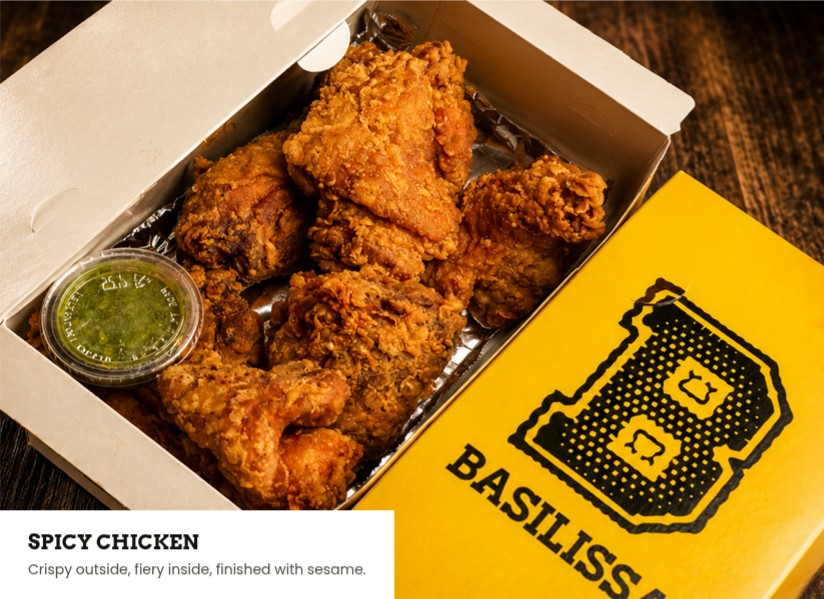
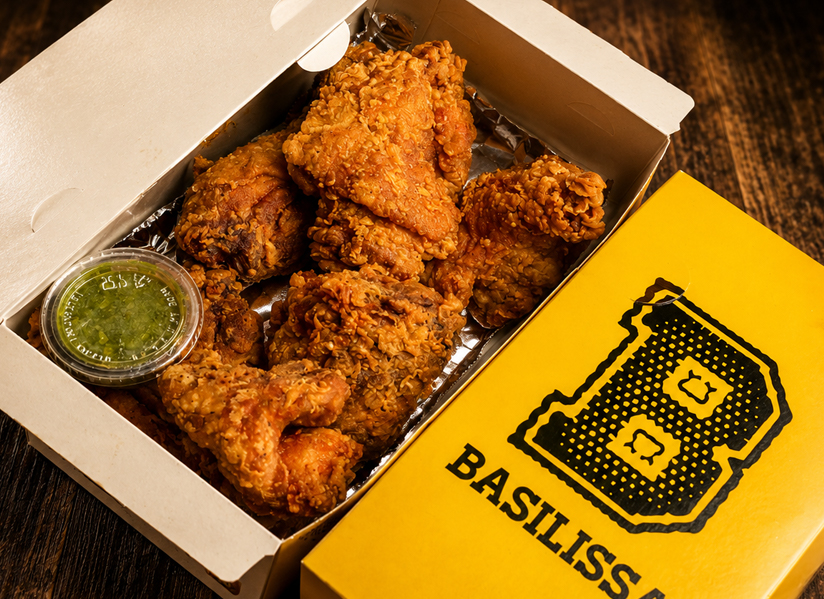
Refactor code structure for improved readability and maintainability

diff --git a/src/app/basilissa/page.tsx b/src/app/basilissa/page.tsx
@@ -1,5 +1,81 @@
-import Image from "next/image";
+'use client';
+
+import { useState } from 'react';
+import Image from 'next/image';
+import { motion, AnimatePresence } from 'framer-motion';
+
+interface FoodItem {
+  id: string;
+  label: string;
+  sublabel?: string;
+  title: string;
+  description: string;
+  image: string;
+  alt: string;
+}
+
+const FOOD_ITEMS: FoodItem[] = [
+  {
+    id: 'shawarma',
+    label: 'Shawarma',
+    title: 'Signature Shawarma',
+    description: 'Fresh flatbread rolled with seasoned rotisserie chicken, garlic sauce, and crisp vegetables.',
+    image: '/images/basilissa/shawarma.jpg',
+    alt: 'Freshly wrapped Basilissa chicken shawarma with fries and dipping sauce',
+  },
+  {
+    id: 'burgers',
+    label: 'Burgers',
+    title: 'Gourmet Burgers',
+    description: 'Juicy grilled beef patty with melted cheddar, crisp greens, and house sauce in a toasted brioche bun.',
+    image: '/images/basilissa/burger.jpg',
+    alt: 'Basilissa gourmet burger with golden fries and dipping sauce',
+  },
+  {
+    id: 'pizza',
+    label: 'Pizza',
+    title: 'Artisanal Pizza',
+    description: 'Freshly baked with savory chicken, sweet peppers, melted mozzarella, and fresh basil.',
+    image: '/images/basilissa/pizza.jpg',
+    alt: 'Freshly baked Basilissa artisanal pizza on a wooden board',
+  },
+  {
+    id: 'rice-meals',
+    label: 'Rice meals',
+    title: 'Rice Meals',
+    description: 'Signature grilled chicken served with seasoned fried rice, golden omelette, and fresh coleslaw.',
+    image: '/images/basilissa/cta-chicken-rice.jpg',
+    alt: 'Basilissa grilled chicken and seasoned fried rice meal platter',
+  },
+  {
+    id: 'chicken',
+    label: 'Chicken',
+    title: 'Spicy Chicken',
+    description: 'Crispy outside, fiery inside, expertly fried and finished with toasted sesame seeds.',
+    image: '/images/basilissa/spicy-chicken.jpg',
+    alt: 'Basilissa spicy fried chicken in a takeaway box',
+  },
+  {
+    id: 'sides',
+    label: 'Sides',
+    title: 'Sides & Extras',
+    description: 'Golden fried plantains, seasoned fries, fresh salads, and authentic Ghanaian specialty sauces.',
+    image: '/images/basilissa/tableware.jpg',
+    alt: 'Basilissa traditional sides, plantains, and table accompaniments',
+  },
+  {
+    id: 'nominom',
+    label: 'Nominom',
+    sublabel: 'Drinks and Desserts…',
+    title: 'Drinks & Desserts',
+    description: 'Fresh juices, fruit smoothies, cakes, and sweet baked treats from our Nominom collection.',
+    image: '/images/basilissa/drinks-desserts.jpg',
+    alt: 'Nominom fresh juices, cake, and sweet pastries',
+  },
+];
+
 export default function BasilissaPage() {
+  const [activeFood, setActiveFood] = useState<FoodItem>(FOOD_ITEMS[0]);
   return (
     <>
       <style dangerouslySetInnerHTML={{ __html: `
@@ -80,15 +156,23 @@ export default function BasilissaPage() {
                     .food{padding:136px 0 140px}
                     .food h2{margin-bottom:60px;max-width:640px}
                     .food-grid{display:grid;grid-template-columns:minmax(0,824fr) minmax(0,377fr);gap:48px}
-                    .feature{position:relative}
-                    .feature img{width:100%}
-                    .feature figcaption{position:absolute;left:0;bottom:0;background:#fff;padding:20px 28px 18px;width:min(394px,100%)}
-                    .feature figcaption b{font-family:var(--head);font-size:21px;text-transform:uppercase;display:block;line-height:1.2}
-                    .feature figcaption span{font-size:14px;color:var(--text)}
-                    .food-side p{margin-bottom:40px}
-                    .menu li{border-top:1px solid var(--line);font-family:var(--head);font-weight:700;font-size:18px;text-transform:uppercase;padding:12px 0}
+                    .feature{position:relative;overflow:hidden;aspect-ratio:824/599;background:#f6f5f0;width:100%}
+                    .food-img-motion{position:absolute;inset:0;width:100%;height:100%}
+                    .food-img-cover{width:100%;height:100%;object-fit:cover}
+                    .feature figcaption{position:absolute;left:0;bottom:0;background:#fff;padding:20px 28px 18px;width:min(394px,100%);z-index:10;box-shadow:0 -4px 20px rgba(18,19,15,.06)}
+                    .feature figcaption b{font-family:var(--head);font-size:21px;text-transform:uppercase;display:block;line-height:1.2;color:var(--black)}
+                    .feature figcaption span{font-size:14px;color:var(--text);display:block;margin-top:4px}
+                    .food-side p{margin-bottom:32px}
+                    .menu{list-style:none;padding:0;margin:0}
+                    .menu li{border-top:1px solid var(--line);padding:0}
                     .menu li:last-child{border-bottom:1px solid var(--line)}
-                    .menu li em{font:500 14px var(--body);text-transform:none;margin-left:6px}
+                    .menu-btn{width:100%;text-align:left;background:none;border:none;cursor:pointer;font-family:var(--head);font-weight:700;font-size:18px;text-transform:uppercase;padding:12px 14px;display:flex;align-items:center;justify-content:space-between;transition:all .2s ease;color:var(--black)}
+                    .menu-btn:hover{background:var(--beige);padding-left:20px}
+                    .menu-btn.active{background:var(--yellow);padding-left:20px}
+                    .menu-btn em{font:500 14px var(--body);text-transform:none;margin-left:6px;opacity:.8}
+                    .menu-arrow{width:16px;height:16px;opacity:0;transition:all .2s ease;transform:translateX(-6px);flex-shrink:0}
+                    .menu-btn:hover .menu-arrow{opacity:.4;transform:translateX(0)}
+                    .menu-btn.active .menu-arrow{opacity:1;transform:translateX(0)}
                     .food-side .btn{display:block;margin-top:40px}
                     .food-row{display:grid;grid-template-columns:minmax(0,824fr) minmax(0,401fr);gap:24px;margin-top:57px;align-items:stretch}
                     .food-video{display:block;width:100%;height:auto;aspect-ratio:16/9;object-fit:contain;background:#111;border:0;border-bottom:12px solid var(--pink);box-shadow:0 18px 38px rgba(18,19,15,.12)}
@@ -293,19 +377,70 @@ export default function BasilissaPage() {
           <h2>Food made to be remembered.</h2>
           <div className="food-grid">
             <figure className="feature">
-              <Image src="/images/basilissa/spicy-chicken.jpg" alt="Basilissa spicy fried chicken in a takeaway box" width={824} height={599} />
-              <figcaption><b>Spicy chicken</b><span>Crispy outside, fiery inside, finished with sesame.</span></figcaption>
+              <AnimatePresence mode="wait">
+                <motion.div
+                  key={activeFood.id}
+                  initial={{ opacity: 0, scale: 0.98 }}
+                  animate={{ opacity: 1, scale: 1 }}
+                  exit={{ opacity: 0, scale: 1.01 }}
+                  transition={{ duration: 0.35, ease: 'easeInOut' }}
+                  className="food-img-motion"
+                >
+                  <Image
+                    src={activeFood.image}
+                    alt={activeFood.alt}
+                    fill
+                    sizes="(max-width: 900px) 100vw, 824px"
+                    priority
+                    className="food-img-cover"
+                  />
+                </motion.div>
+              </AnimatePresence>
+              <AnimatePresence mode="wait">
+                <motion.figcaption
+                  key={`cap-${activeFood.id}`}
+                  initial={{ opacity: 0, y: 8 }}
+                  animate={{ opacity: 1, y: 0 }}
+                  exit={{ opacity: 0, y: -6 }}
+                  transition={{ duration: 0.25 }}
+                >
+                  <b>{activeFood.title}</b>
+                  <span>{activeFood.description}</span>
+                </motion.figcaption>
+              </AnimatePresence>
             </figure>
             <div className="food-side">
               <p>Every Basilissa dish is developed around flavour and prepared to one standard across all our kitchens — from our signature chicken to rice meals, pizza and fresh drinks.</p>
               <ul className="menu">
-                <li>Shawarma</li>
-                <li>Burgers</li>
-                <li>Pizza</li>
-                <li>Rice meals</li>
-                <li>Chicken</li>
-                <li>Sides</li>
-                <li>Nominom <em>Drinks and Desserts…</em></li>
+                {FOOD_ITEMS.map((item) => {
+                  const isActive = item.id === activeFood.id;
+                  return (
+                    <li key={item.id}>
+                      <button
+                        type="button"
+                        onClick={() => setActiveFood(item)}
+                        className={`menu-btn ${isActive ? 'active' : ''}`}
+                        aria-pressed={isActive}
+                      >
+                        <span>
+                          {item.label}
+                          {item.sublabel && <em>{item.sublabel}</em>}
+                        </span>
+                        <svg
+                          className="menu-arrow"
+                          viewBox="0 0 24 24"
+                          fill="none"
+                          stroke="currentColor"
+                          strokeWidth={2.5}
+                          strokeLinecap="round"
+                          strokeLinejoin="round"
+                        >
+                          <polyline points="9 18 15 12 9 6" />
+                        </svg>
+                      </button>
+                    </li>
+                  );
+                })}
               </ul>
               <a className="btn btn-outline" target="_blank" rel="noopener noreferrer" href="https://basilissa.web.app">Explore our food</a>
             </div>
